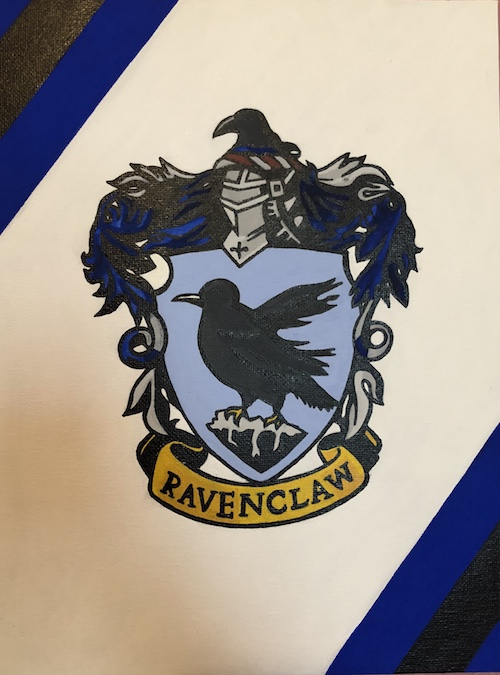
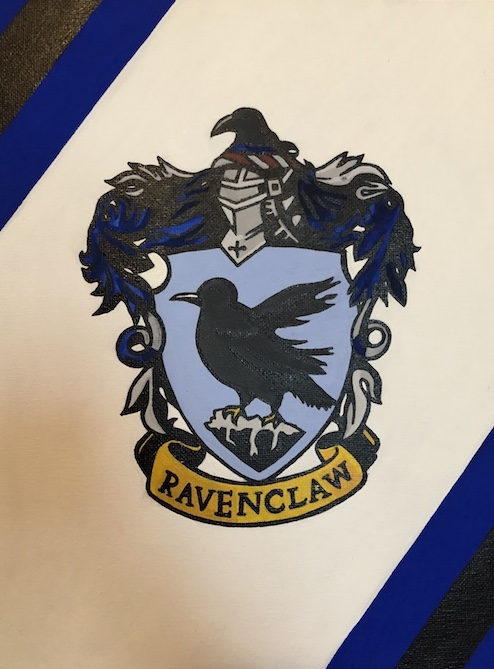
added some paintings and changed profile pic

diff --git a/artwork.html b/artwork.html
@@ -26,7 +26,6 @@
         <div class="gallery">
           
           <h2>Drawings</h2>
-
           <div><img src="art/D1.jpg" /></div>
           <div><img src="art/D2.jpg" /></div>
           <div><img src="art/D3.jpg" /></div>
@@ -39,9 +38,24 @@
 
       <div class="sec">
         <div class="gallery">
+        
+          <h2>Paintings</h2>
+          <div><img src="art/P1.jpg" /></div>
+          <div><img src="art/P2.jpg" /></div>
+          <div><img src="art/P3.jpg" /></div>
+          <div><img src="art/P4.jpg" /></div>
+          <div><img src="art/P5.jpg" /></div>
+          <div><img src="art/P6.jpg" /></div>
+          <div><img src="art/P7.jpg" /></div>
+          <div><img src="art/P8.jpg" /></div>
+
+        </div>
+      </div>
+
+      <div class="sec">
+        <div class="gallery">
           
           <h2>Digital</h2>
-
           <div><img src="art/C0.png" /></div>
           <div><img src="art/C1.jpeg" /></div>
           <div><img src="art/C2.png" /></div>
@@ -49,18 +63,6 @@
         </div>
       </div>
       
-      <div class="sec">
-        <div class="gallery">
-        
-          <h2>Paintings</h2>
-       
-          <div><img src="art/P2.jpg" /></div>
-          <div><img src="art/P3.jpg" /></div>
-          <div><img src="art/P4.jpg" /></div>
-
-        </div>
-      </div>
-
   </div>
 
   <script src="responsive.js"></script>

diff --git a/resume.html b/resume.html
@@ -27,7 +27,7 @@
       <div class="rl">
         <div class="sec">
           <h2>Education</h2>
-          <p>University of Central Florida<br/>Computer Science, B.S.<br/>December 2018 (expected)<br/>GPA: 3.8/4.0</p>
+          <p>University of Central Florida<br/>Computer Science, B.S.<br/>December 2018 (expected)<br/>GPA: 3.7/4.0</p>
         </div>
 
         <div class="sec">
@@ -81,7 +81,7 @@
           </ul>
         </div>
 
-        <!--<div class="sec">
+        <div class="sec">
           <h2>Related Coursework</h2>
           <div class="l">
             <ul>
@@ -90,6 +90,7 @@
               <li><p>Intro to Discrete Structures</p></li>
               <li><p>Computer Logic and Organization</p></li>
               <li><p>Systems Software</p></li>
+              <li><p>Operating Systems</p></li>
             </ul> 
           </div>
           <div class="r">
@@ -97,11 +98,11 @@
               <li><p>Processes for Object Oriented Software Development</p></li>
               <li><p>Computer Vision</p></li>
               <li><p>Database Systems</p></li>
-              <li><p>Operating Systems</p></li>
+              
             </ul> 
           </div>
 
-        </div>-->
+        </div>
 
       </div>
 

diff --git a/generalstyle.css b/generalstyle.css
@@ -199,7 +199,7 @@ h2 {
   color: #b8abc6;
 }
 
-/*.l {
+.l {
   width:45%;
   float: left;
   padding: 1% 0% 1% 2%;
@@ -209,7 +209,7 @@ h2 {
   width: 45%;
   float: left;
   padding: 0% 0% 2% 10%;
-}*/
+}
 
 /*----------------- About Me -----------------*/
 
